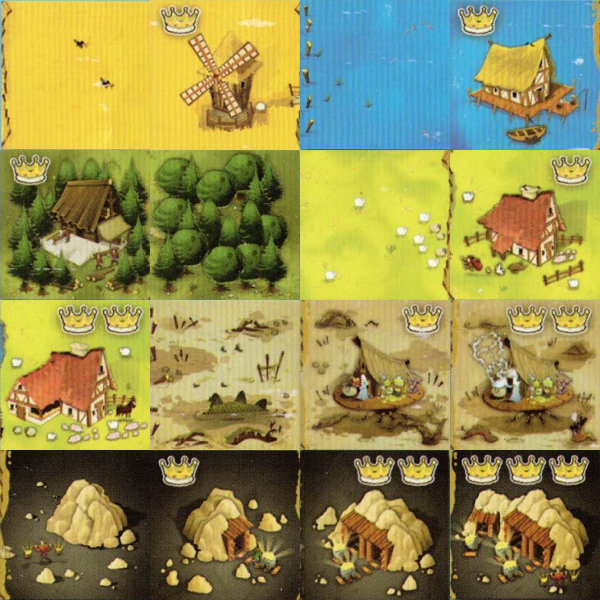
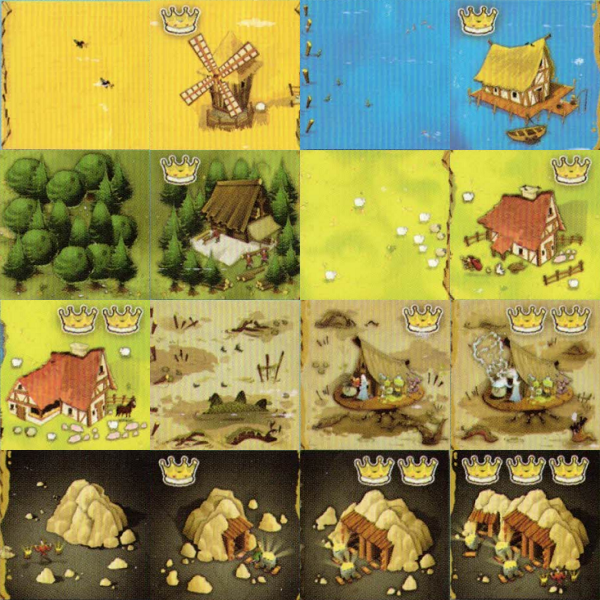
KD: fix tiles

Changed region(s): [[0.0, 0.24, 0.51, 0.51]]

diff --git a/KingDomino/board.js b/KingDomino/board.js
@@ -128,54 +128,54 @@ class Board {
 
     resetCards() {
         this.cards = [];
-        this.addCard(27, FOREST, 1, FIELD, 0);
-        this.addCard(32, WATER, 1, FOREST, 0);
-        this.addCard(24, FOREST, 1, FIELD, 0);
-        this.addCard(45, MINE, 2, FIELD, 0);
-        this.addCard(38, FIELD, 0, SWAMP, 1);
-        this.addCard(41, FIELD, 0, GRASS, 2);
-        this.addCard(36, FIELD, 0, GRASS, 1);
-        this.addCard(15, FIELD, 0, GRASS, 0);
-        this.addCard(8, WATER, 0, WATER, 0);
-        this.addCard(18, FOREST, 0, GRASS, 0);
-        this.addCard(42, WATER, 0, GRASS, 2);
-        this.addCard(10, GRASS, 0, GRASS, 0);
-        this.addCard(35, WATER, 1, FOREST, 0);
-        this.addCard(16, FIELD, 0, SWAMP, 0);
-        this.addCard(26, FOREST, 1, FIELD, 0);
-        this.addCard(4, FOREST, 0, FOREST, 0);
-        this.addCard(22, FIELD, 1, SWAMP, 0);
-        this.addCard(21, FIELD, 1, GRASS, 0);
-        this.addCard(29, FOREST,1, GRASS, 0);
-        this.addCard(13, FIELD, 0, FOREST, 0);
-        this.addCard(5, FOREST, 0, FOREST, 0);
-        this.addCard(39, GRASS, 0, FOREST, 1);
-        this.addCard(19, FIELD, 1, FOREST, 0);
-        this.addCard(34, WATER, 1, FOREST, 0);
-        this.addCard(28, FOREST, 1, WATER, 0);
-        this.addCard(31, WATER, 1, FIELD, 0);
-        this.addCard(30, WATER, 1, FIELD, 0);
-        this.addCard(47, SWAMP, 0, MINE, 2);
-        this.addCard(42, FIELD, 0, SWAMP, 2);
-        this.addCard(40, MINE, 1, FIELD, 0);
-        this.addCard(33, WATER, 1, FOREST, 0);
-        this.addCard(25, FOREST, 1, FIELD, 0);
-        this.addCard(3, FOREST, 0, FOREST, 0);
-        this.addCard(17, FOREST, 0, WATER, 0);
-        this.addCard(14, FIELD, 0, WATER, 0);
-        this.addCard(20, FIELD, 1, WATER, 0);
-        this.addCard(2, FIELD, 0, FIELD, 0);
-        this.addCard(48, FIELD, 0, MINE, 3);
-        this.addCard(23, FIELD, 1, MINE, 0);
-        this.addCard(46, SWAMP, 0, MINE, 2);
-        this.addCard(7, WATER, 0, WATER, 0);
-        this.addCard(44, GRASS, 0, SWAMP, 2);
-        this.addCard(11, GRASS, 0, GRASS, 0);
         this.addCard(1, FIELD, 0, FIELD, 0);
-        this.addCard(9, WATER, 0, WATER, 0);
+        this.addCard(2, FIELD, 0, FIELD, 0);
+        this.addCard(3, FOREST, 0, FOREST, 0);
+        this.addCard(4, FOREST, 0, FOREST, 0);
+        this.addCard(5, FOREST, 0, FOREST, 0);
         this.addCard(6, FOREST, 0, FOREST, 0);
+        this.addCard(7, WATER, 0, WATER, 0);
+        this.addCard(8, WATER, 0, WATER, 0);
+        this.addCard(9, WATER, 0, WATER, 0);
+        this.addCard(10, GRASS, 0, GRASS, 0);
+        this.addCard(11, GRASS, 0, GRASS, 0);
         this.addCard(12, SWAMP, 0, SWAMP, 0);
+        this.addCard(13, FIELD, 0, FOREST, 0);
+        this.addCard(14, FIELD, 0, WATER, 0);
+        this.addCard(15, FIELD, 0, GRASS, 0);
+        this.addCard(16, FIELD, 0, SWAMP, 0);
+        this.addCard(17, FOREST, 0, WATER, 0);
+        this.addCard(18, FOREST, 0, GRASS, 0);
+        this.addCard(19, FIELD, 1, FOREST, 0);
+        this.addCard(20, FIELD, 1, WATER, 0);
+        this.addCard(21, FIELD, 1, GRASS, 0);
+        this.addCard(22, FIELD, 1, SWAMP, 0);
+        this.addCard(23, FIELD, 1, MINE, 0);
+        this.addCard(24, FOREST, 1, FIELD, 0);
+        this.addCard(25, FOREST, 1, FIELD, 0);
+        this.addCard(26, FOREST, 1, FIELD, 0);
+        this.addCard(27, FOREST, 1, FIELD, 0);
+        this.addCard(28, FOREST, 1, WATER, 0);
+        this.addCard(29, FOREST,1, GRASS, 0);
+        this.addCard(30, WATER, 1, FIELD, 0);
+        this.addCard(31, WATER, 1, FIELD, 0);
+        this.addCard(32, WATER, 1, FOREST, 0);
+        this.addCard(33, WATER, 1, FOREST, 0);
+        this.addCard(34, WATER, 1, FOREST, 0);
+        this.addCard(35, WATER, 1, FOREST, 0);
+        this.addCard(36, FIELD, 0, GRASS, 1);
         this.addCard(37, WATER, 0, GRASS, 1);
+        this.addCard(38, FIELD, 0, SWAMP, 1);
+        this.addCard(39, GRASS, 0, SWAMP, 1);
+        this.addCard(40, MINE, 1, FIELD, 0);
+        this.addCard(41, FIELD, 0, GRASS, 2);
+        this.addCard(42, WATER, 0, GRASS, 2);
+        this.addCard(43, FIELD, 0, SWAMP, 2);
+        this.addCard(44, GRASS, 0, SWAMP, 2);
+        this.addCard(45, MINE, 2, FIELD, 0);
+        this.addCard(46, SWAMP, 0, MINE, 2);
+        this.addCard(47, SWAMP, 0, MINE, 2);
+        this.addCard(48, FIELD, 0, MINE, 3);
 
         shuffleArray(this.cards);
 

diff --git a/KingDomino/main.js b/KingDomino/main.js
@@ -89,23 +89,7 @@ function drawGame() {
 	);
 
 	// draw tiles
-	//spritesheet.drawSprite("players", 0, 325, 325);
-	push();
-	noFill();
-	stroke(0);
-	for( let i=0; i < 5; i++ ) {
-		for( let j=0; j < 5; j++ ) {
-			const tile = board.tiles[i][j];
-			if( tile.type === "chateau" ) {
-				spritesheet.drawSprite("players", 0, 25+j*150, 25+i*150);
-			} else if( tile.type === "none" ) {
-				rect(25+j*150, 25+i*150,150,150);
-			} else {
-				spritesheet.drawSprite("tiles", getCardIndex(tile), 25+j*150, 25+i*150);
-			}
-		}
-	}
-	pop();
+	drawTiles();
 
 	if( board.curCardClickedIndex >= 0 ) {
 		spritesheet.drawSprite("meeple", 0, 860+75, 25+200*board.curCardClickedIndex);
@@ -156,6 +140,25 @@ function drawLoading() {
 	}
 }
 
+function drawTiles() {
+	push();
+	noFill();
+	stroke(0);
+	for( let i=0; i < 5; i++ ) {
+		for( let j=0; j < 5; j++ ) {
+			const tile = board.tiles[i][j];
+			if( tile.type === "chateau" ) {
+				spritesheet.drawSprite("players", 0, 25+j*150, 25+i*150);
+			} else if( tile.type === "none" ) {
+				rect(25+j*150, 25+i*150,150,150);
+			} else {
+				spritesheet.drawSprite("tiles", getCardIndex(tile), 25+j*150, 25+i*150);
+			}
+		}
+	}
+	pop();
+}
+
 function draw() {
     const currentTime = Date.now();
 	const elapsedTime = currentTime - lastTime;
@@ -183,6 +186,7 @@ function draw() {
 		drawGame();
 	}
 	if( curState === GAME_OVER_STATE ) {
+		drawTiles();
 		push();
 		fill(250);
 		textAlign(LEFT, BOTTOM);
